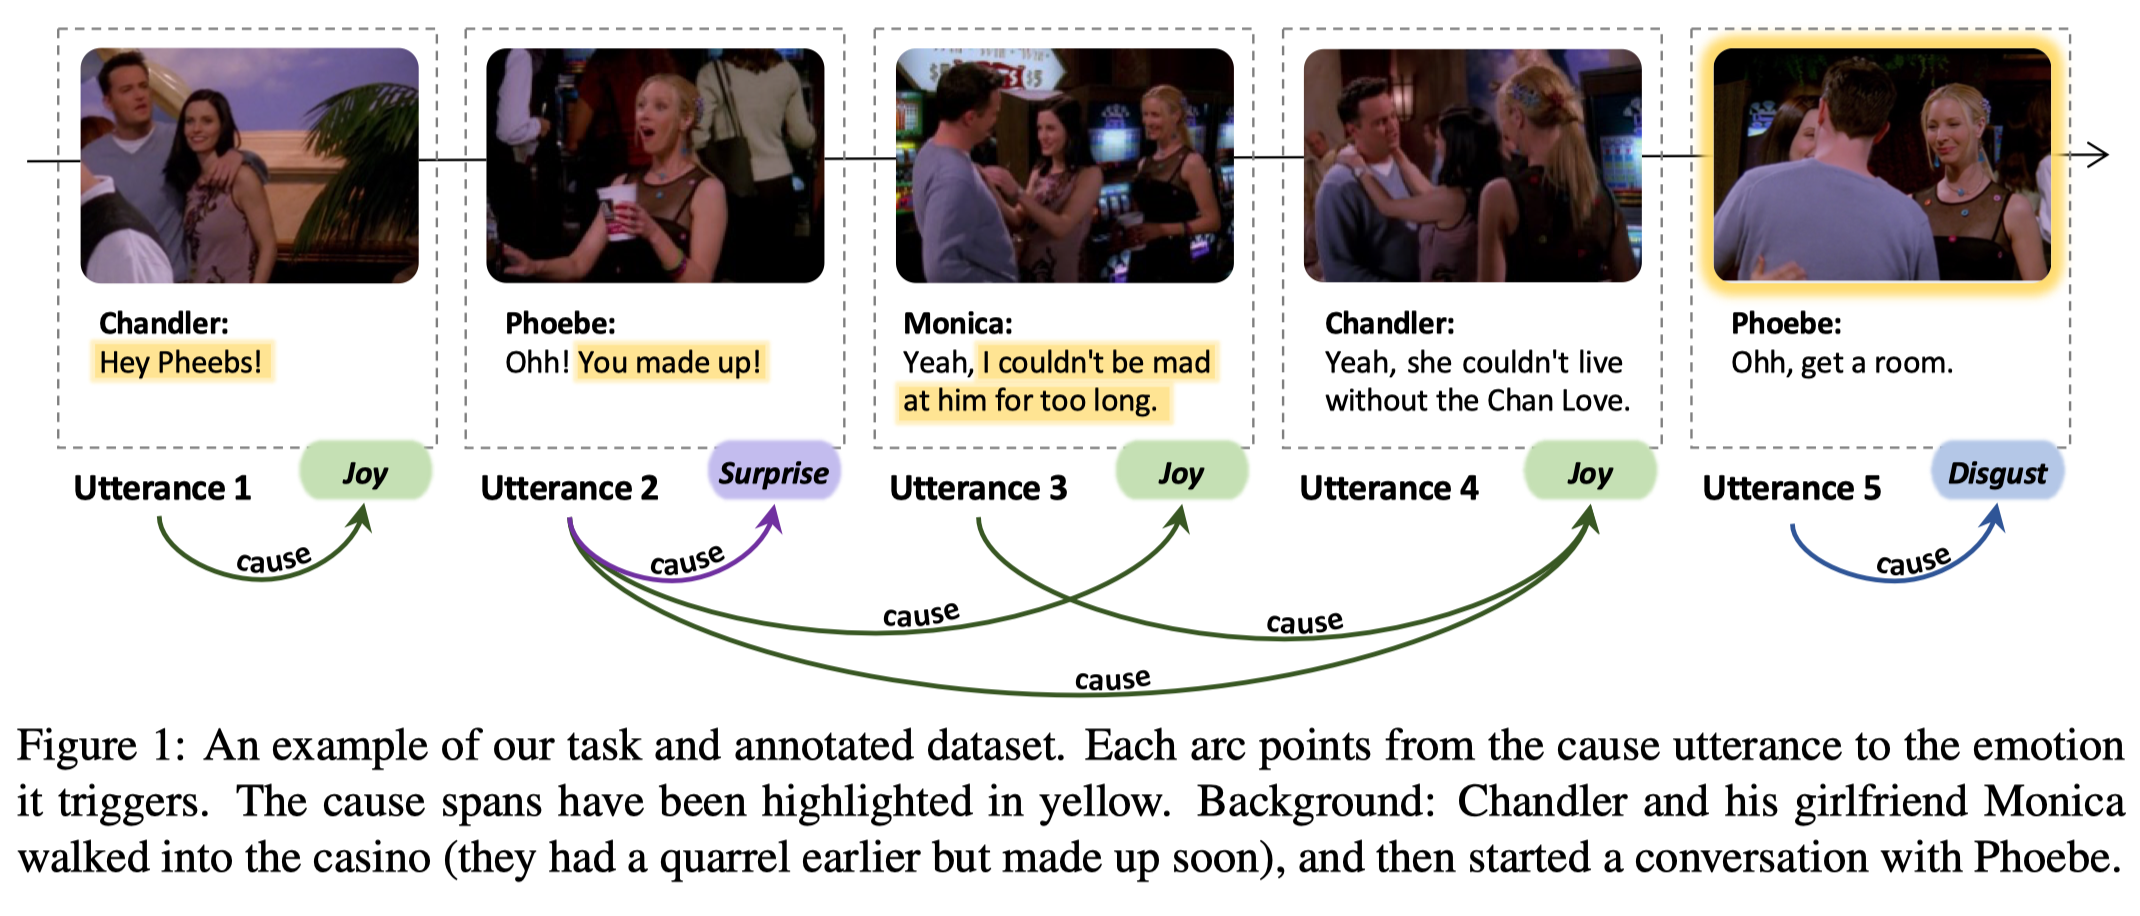
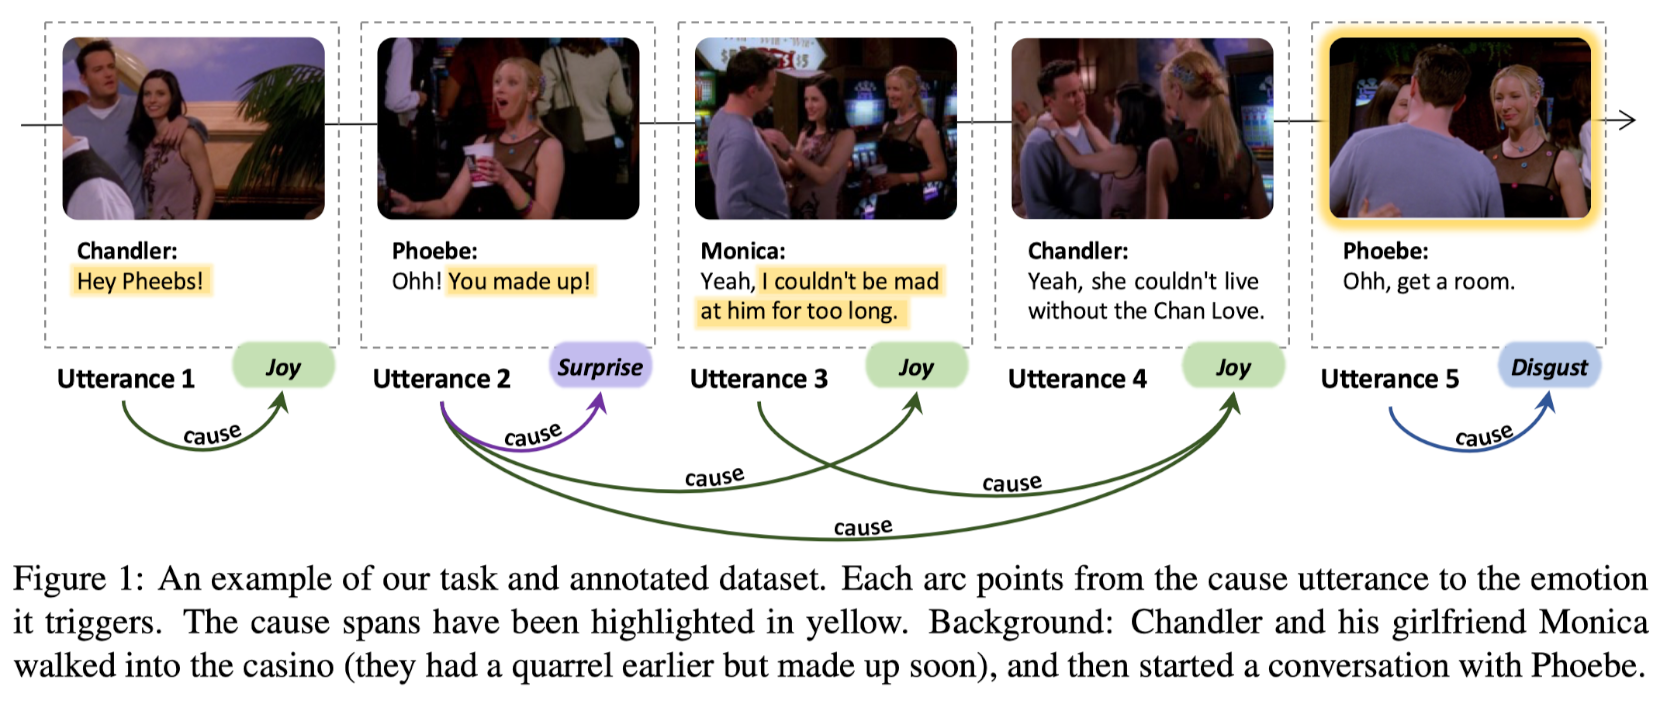
Rescaled images. Updated README

diff --git a/README.md b/README.md
@@ -1,13 +1,4 @@
 ## THOR: Three-hop Reasoning for Emotion Cause Analysis in Context
-<a href="https://huggingface.co/docs/transformers/model_doc/flan-t5" rel="nofollow">
-  <img src="https://img.shields.io/badge/Flan-T5-purple" alt="Build Status">
-</a>
-<a href="https://huggingface.co/docs/transformers/index" rel="nofollow">
-  <img src="https://img.shields.io/badge/transformers-4.24.0-green" alt="Build Status">
-</a>
-<a href="https://pytorch.org" rel="nofollow">
-  <img src="https://img.shields.io/badge/pytorch-1.10.0-orange" alt="pytorch 1.8.1">
-</a>
 
 
 **The PyTorch reforged and forked version of the official 
@@ -23,12 +14,13 @@ Supported by Emotion State with Chain-of-Thoughts]()**
 
 > **NOTE:** List of the changes from the original THoR
 
-## Quick Links
-- [Overview](#overview)
-- [Code Usage](#code)
-  - [Requirement](#requirement)
-  - [Dataset](#data)
-- [References](#references)  
+## Contents
+* [Overview](#overview)
+* [Code Usage](#code)
+  * [Quickstart](#quickstart)
+  * [Requirement](#requirement)
+  * [Dataset](#data)
+* [References](#references)  
 
 ## Overview<a name="overview" />
 
@@ -38,7 +30,6 @@ Supported by Emotion State with Chain-of-Thoughts]()**
   <img src="./figures/task.png" width="450"/>
 </p>
 
-
 > Framework illustration.
 
 <p align="center">
@@ -46,6 +37,13 @@ Supported by Emotion State with Chain-of-Thoughts]()**
 </p>
 
 ## Code Usage<a name="code" />
+
+### Quickstart
+
+We provide a [google-colab notebook]()
+for downloading all the necessary data, followed by launching 
+experiments with `NVidia-V100`/ or `NVidia-A100`.
+
 
 ### Requirement<a name="requirement" />
 
@@ -55,17 +53,22 @@ pip install -r requirements.txt
 
 ### Dataset<a name="data" />
 
-> TO BE ADDED.
+We utilize the following pre-processed collections:
+* `D-state`: train and validation data
+* `D-cause`: train, validation and test data.
 
 ### LLMs<a name="llm" />
 
 A. Use the Flan-T5 as the backbone LLM reasoner:
-  - [google/flan-t5-base](https://huggingface.co/google/flan-t5-base),  
-  - [google/flan-t5-large](https://huggingface.co/google/flan-t5-large), 
-  - [google/flan-t5-xl](https://huggingface.co/google/flan-t5-xl),  
-  - [google/flan-t5-xxl](https://huggingface.co/google/flan-t5-xxl),  
+  * [google/flan-t5-base](https://huggingface.co/google/flan-t5-base)
+  * [google/flan-t5-large](https://huggingface.co/google/flan-t5-large)
+  * [google/flan-t5-xl](https://huggingface.co/google/flan-t5-xl)
+  * [google/flan-t5-xxl](https://huggingface.co/google/flan-t5-xxl)
 
 ### Training and Evaluating with Flan-T5<a name="runt5" />
+<a href="https://huggingface.co/docs/transformers/model_doc/flan-t5" rel="nofollow">
+  <img src="https://img.shields.io/badge/Flan-T5-purple" alt="Build Status">
+</a>
 
 Use the [main.py](main.py) script with command-line arguments to run the 
 **Flan-T5-based** THOR system. 
@@ -83,7 +86,6 @@ python main.py
     -f <yaml_config> 
 ```
 Some important arguments:
-
 * `-c`, `--cuda_index`: Index of the GPU to use for computation (default is 0).
 * `-d`, `--data_name`: Name of the dataset. Choices are 'restaurants' or 'laptops' (default is 'laptops').
 * `-r`, `--reasoning`: Specifies the reasoning mode, with one-step prompt or multi-step thor mode (default is 'thor').
